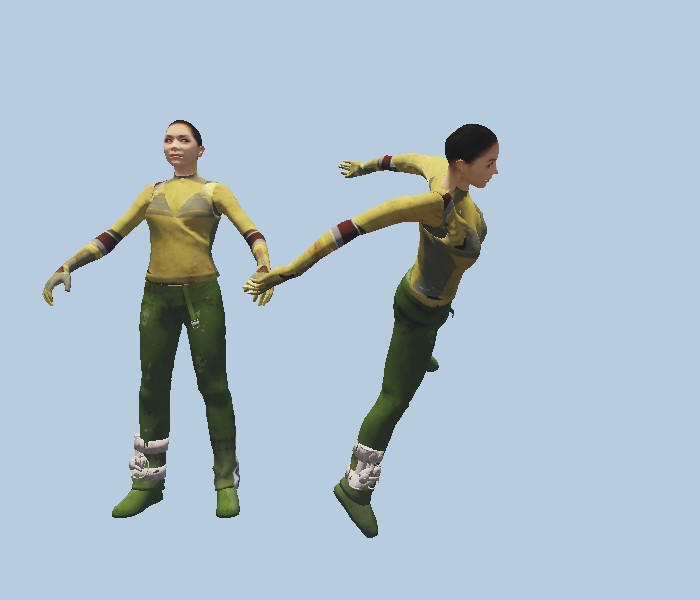
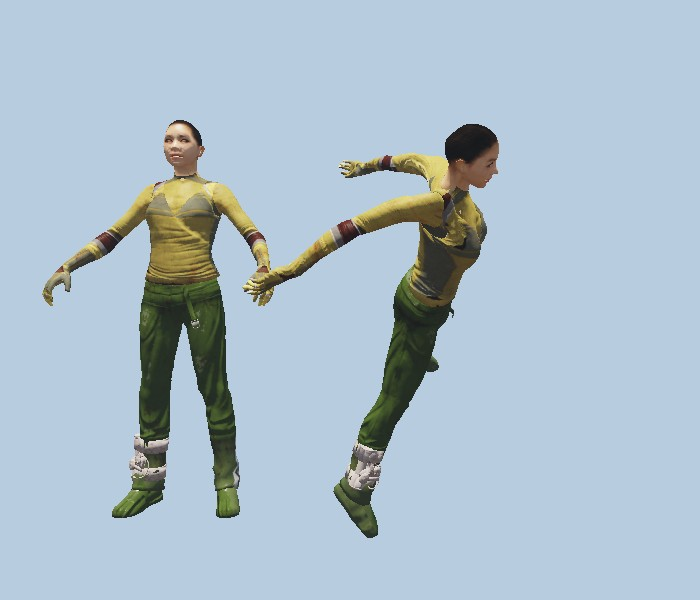
normal and specular maps for characters

diff --git a/src/viewer/main.cpp b/src/viewer/main.cpp
@@ -46,11 +46,12 @@ struct TypeGeom {
 
 struct GpuInstance { float pos[3], p0, scale[3], p1, quat[4]; };  // 48 bytes
 
-struct MatInfo { std::string name, tex, dyeMask, dyePal; int slot = 0; int state = 0; };  // state: 0 pending, 1 resolved
+struct MatInfo { std::string name, tex, dyeMask, dyePal, nrm, spc; int slot = 0; int state = 0; int nrmSlot = 0, spcSlot = 0; };  // state: 0 pending, 1 resolved
 
 struct Spawn { std::string mesh, clip; float pos[3]; float yaw; std::vector<int> parts; std::map<int, std::string> partMat; };  // --spawn: skinned character in a static pose
 
 struct World {
+    bool rich = false;   // materials created while true also get normal + specular maps (characters)
     bool nomap = false;  // --nomap: only --spawn characters (fast test scene)
     std::vector<Spawn> spawns;
     std::vector<float> vertices;     // x y z u v + packed snorm8 normal (uint32 bits), 6 floats per vertex
@@ -76,10 +77,15 @@ static uint32_t matId(World& w, const std::string& name) {
     auto it = w.matIndex.find(name);
     if (it != w.matIndex.end()) return it->second;
     uint32_t id = (uint32_t)w.mats.size();
-    MatInfo mi{name, w.db ? w.db->diffuse(name, [&](const std::string& n) { return w.textures.count(n) > 0; }) : std::string(), "", "", 0, 0};
+    MatInfo mi{name, w.db ? w.db->diffuse(name, [&](const std::string& n) { return w.textures.count(n) > 0; }) : std::string()};
     if (w.db) {
         mi.dyeMask = w.db->sampler(name, "s_idx"); mi.dyePal = w.db->sampler(name, "s_grd");
         if (!w.textures.count(mi.dyeMask) || !w.textures.count(mi.dyePal)) mi.dyeMask = mi.dyePal = "";
+    }
+    if (w.db && w.rich) {
+        mi.nrm = w.db->sampler(name, "s_nrm_0"); mi.spc = w.db->sampler(name, "s_spc_0");
+        if (!w.textures.count(mi.nrm)) mi.nrm.clear();
+        if (!w.textures.count(mi.spc)) mi.spc.clear();
     }
     w.mats.push_back(mi);
     w.matIndex[name] = id;
@@ -191,7 +197,7 @@ static void loadWorld(const fs::path& dw, const std::string& map, World& w) {
         }
     }
     try { w.db = std::make_unique<oc::MaterialDb>((dw / "Data" / "optimized_dx11.mp").string()); } catch (std::exception& ex) { fprintf(stderr, "materials: %s\n", ex.what()); }
-    w.mats.push_back({"", "", "", "", 0, 1});
+    w.mats.push_back({"", "", "", "", "", "", 0, 1});
     // far terrain ("terrain_horizon") meshes are baked in world space and not listed in the .sobj: add them at the origin
     if (!w.nomap) {
         std::string pre1 = map + "_terrain_horizon", pre2 = map == "old_town" ? "ot_terrain_horizon" : std::string("?");
@@ -248,7 +254,9 @@ static void loadWorld(const fs::path& dw, const std::string& map, World& w) {
             }
             std::vector<std::string> partMats;
             oc::MeshGroup mg = mergeParts(m, havePose ? &pose : nullptr, s.parts.empty() ? std::vector<int>{0} : s.parts, s.partMat, partMats);
+            w.rich = true;
             appendGroup(w, mg, partMats, g.vertexOffset[0], g.subs[0]);
+            w.rich = false;
             g.vertexOffset[1] = g.vertexOffset[0];
             g.subs[1] = g.subs[0];
             ok++;
@@ -1038,6 +1046,16 @@ int main(int argc, char** argv) {
             }
             setSlot(nextSlot, createTexture(g, tex).view);
             m.slot = (int)nextSlot++;
+            auto extra = [&](const std::string& n, int& slot) {
+                auto e = world.textures.find(n);
+                oc::Texture x;
+                if (n.empty() || e == world.textures.end() || nextSlot >= MAX_TEX) return;
+                try { if (!oc::loadTexture(*e->second.first, *e->second.second, 1024, x)) return; } catch (std::exception&) { return; }
+                setSlot(nextSlot, createTexture(g, x).view);
+                slot = (int)nextSlot++;
+            };
+            extra(m.nrm, m.nrmSlot);
+            extra(m.spc, m.spcSlot);
         }
 
         VkCommandBuffer cmd = cmds[fi];
@@ -1090,7 +1108,7 @@ int main(int argc, char** argv) {
         VkRect2D sc{{0, 0}, g.extent};
         vkCmdSetViewport(cmd, 0, 1, &viewport);
         vkCmdSetScissor(cmd, 0, 1, &sc);
-        struct { glm::mat4 vp; glm::vec4 cam; uint32_t tex; uint32_t pad[3]; } pc{};
+        struct { glm::mat4 vp; glm::vec4 cam; uint32_t tex; uint32_t nrmSpc; uint32_t pad[2]; } pc{};
         glm::mat4 proj = glm::perspective(glm::radians(65.0f), (float)g.extent.width / (float)g.extent.height, 0.3f, std::max(radius * 2.0f, 20000.0f));
         proj[1][1] *= -1.0f;
         pc.vp = proj * glm::lookAt(camPos, camPos + fwd, glm::vec3(0, 1, 0));
@@ -1105,6 +1123,7 @@ int main(int argc, char** argv) {
         vkCmdBindDescriptorSets(cmd, VK_PIPELINE_BIND_POINT_GRAPHICS, layout, 1, 1, &dset1, 1, &uboOff);
         for (const Draw& d : draws) {
             pc.tex = (uint32_t)world.mats[d.mat].slot;
+            pc.nrmSpc = (uint32_t)world.mats[d.mat].nrmSlot | (uint32_t)world.mats[d.mat].spcSlot << 16;
             vkCmdPushConstants(cmd, layout, VK_SHADER_STAGE_VERTEX_BIT | VK_SHADER_STAGE_FRAGMENT_BIT, 0, sizeof pc, &pc);
             vkCmdDrawIndexed(cmd, d.indexCount, d.instanceCount, d.firstIndex, d.vertexOffset, d.firstInstance);
         }

diff --git a/README.md b/README.md
@@ -32,7 +32,7 @@ Independent, from-scratch runtime for **Dying Light (1)** (Chrome Engine 6), wri
 
 ### Characters
 
-Character meshes are skinned kits (head, torso, legs, hair and their LODs as separate groups). The viewer reads the skeleton stored in the mesh, the per-submesh bone palettes and the vertex weights, then applies a pose from a static animation clip (here: bind pose and an NPC reset pose). Skin, clothes and faces use the textures bound by their materials; clothes are dyed from the `s_idx` mask and the `s_grd` colour palette (palette row 0 for now). Normal and specular maps are not applied yet.
+Character meshes are skinned kits (head, torso, legs, hair and their LODs as separate groups). The viewer reads the skeleton stored in the mesh, the per-submesh bone palettes and the vertex weights, then applies a pose from a static animation clip (here: bind pose and an NPC reset pose). Skin, clothes and faces use the textures bound by their materials; clothes are dyed from the `s_idx` mask and the `s_grd` colour palette (palette row 0 for now). Normal maps (DXT5nm, tangent frame from derivatives) and specular maps (`s_spc_0`: colour + gloss in alpha) are applied to characters; the map itself still uses albedo only.
 
 ```
 oc_viewer "<DW dir>" old_town --nomap ^

diff --git a/docs/formats/texture.md b/docs/formats/texture.md
@@ -18,3 +18,8 @@ Pixel data: the other chunk whose size equals the full mip chain x faces (larges
 Format ids (verified by byte counts and by viewing the output): `2` RGBA8 (4 B/texel), `14` 1 B/texel (R8), `17` BC1, `19` BC3, `33` RGBA32F. `18` is 1 B/texel block-compressed, assumed BC2 (unverified).
 
 `tools/textures.py <pack> <outdir> [filter]` writes DDS (DX10 header). Verified visually: bokeh, clouds_top_a, logo_background.
+
+## Material map conventions (character materials)
+
+- `*_nrm` (BC3): DXT5nm, x in alpha, y in green, z reconstructed. Verified visually (cloth folds, face detail).
+- `*_spc` (BC3): rgb specular colour, alpha gloss (guessed from value statistics and the look).
